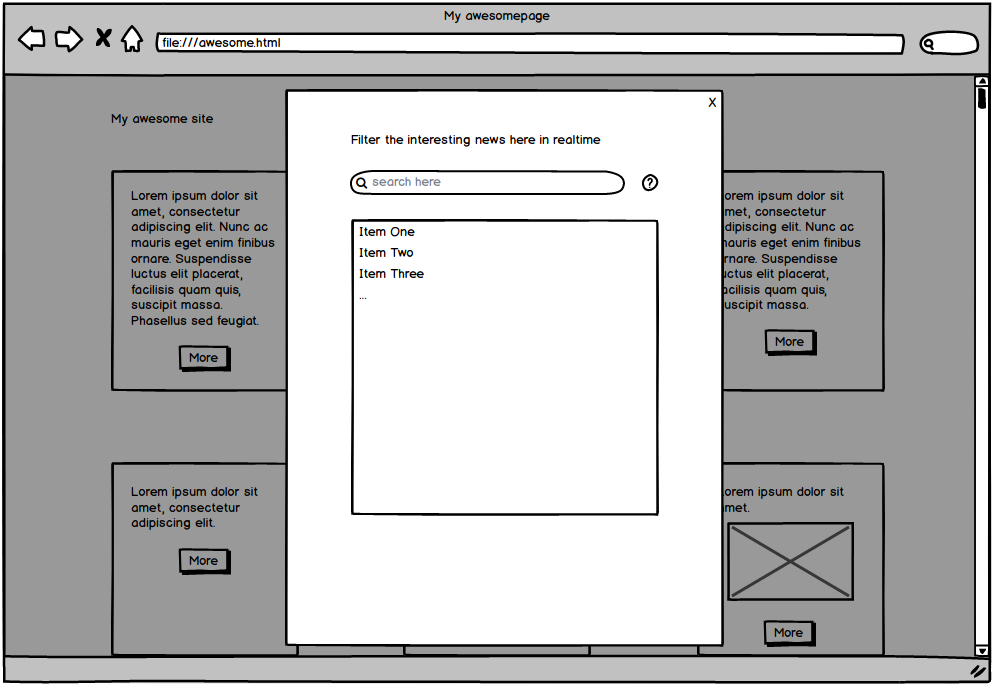
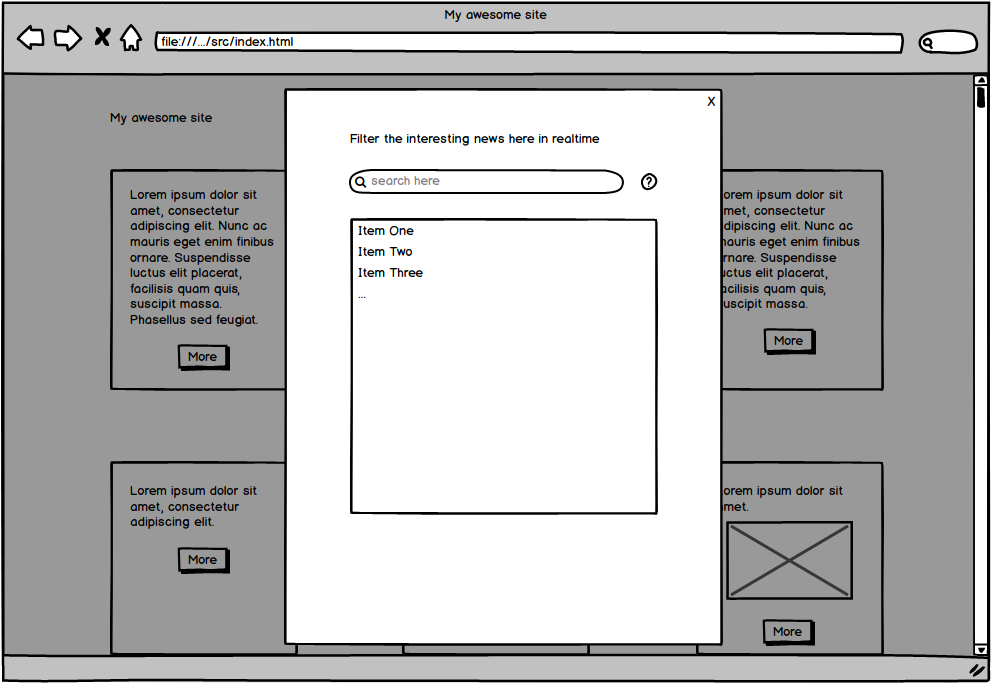
Added an extended skeleton

diff --git a/src/index.html b/src/index.html
@@ -1,0 +1,11 @@
+<!DOCTYPE html>
+<html lang="de">
+<head>
+    <meta charset="UTF-8">
+    <meta name="author" content="Dein Name">
+    <title>My awesome site</title>
+</head>
+<body>
+    <!-- Inhalt -->
+</body>
+</html>

diff --git a/README.md b/README.md
@@ -3,7 +3,7 @@
 * Dauer: 2,5 Stunden
 * Sprachen: HTML, CSS (SASS/LESS), JS
 
-Die von dir erstellen oder angepassten Klassen bearbeitest und speicherst du direkt in dem von dir geklonten Git Fork des Repositories mit unserem Einstellungstest. Nach Fertigstellung committest du das gesamte Repository einschließlich deiner Dateien und pusht deine Änderungen zurück in deinen Fork. Sobald du fertig bist, gibst du uns Bescheid, so dass wir uns deine Lösung ansehen und bewerten können.
+Die von dir erstellen oder angepassten Dateien bearbeitest und speicherst du direkt in dem von dir geklonten Git Fork des Repositories mit unserem Einstellungstest. Nach Fertigstellung committest du das gesamte Repository einschließlich deiner Dateien und pusht deine Änderungen zurück in deinen Fork. Sobald du fertig bist, gibst du uns Bescheid, so dass wir uns deine Lösung ansehen und bewerten können.
 
 In unsere Bewertung fließen folgende Faktoren mit ein:
 
@@ -16,13 +16,14 @@ In unsere Bewertung fließen folgende Faktoren mit ein:
 
 ## Vorbereitung
 
-Der Einstellungstest geht davon aus, dass du bereits über grundlegende Kenntnisse im Einsatz von npm oder yarn verfügst. Der Einstellungstest besteht aus den folgenden Dateien
+Der Einstellungstest geht davon aus, dass du bereits über grundlegende Kenntnisse im Einsatz von npm oder yarn verfügst, diese sind allerdings nicht zwangsläufig notwendig. Der Einstellungstest besteht aus den folgenden Dateien:
 
 * dieser `README.md` Datei mit Informationen über den Ablauf
-* einer `packages.json` als Rahmen falls du Abhängikeiten nachladen möchtest
-* den Mockups die in dieser Readme eingebunden sind 
+* einer `package.json` als Rahmen falls du Abhängikeiten nachladen möchtest
+* einen minimalen Projektaufbau im `src` Ordner inklusive zwei Bilder die verwendet werden können
+* die Wireframes die in dieser Readme eingebunden sind 
 
-Nachdem du dir den Einstellungstest erfolgreich über git geklont hast, kannst du dir Gedanken zu eventuell nötigen Abhängikeiten machen.
+Nachdem du dir den Einstellungstest erfolgreich über git geklont hast, kannst du dir Gedanken zu eventuell nötigen Abhängigkeiten machen.
 Falls du, was optional aber bevorzugt ist, einen CSS Preprocessor nutzt solltest du ihn dir jetzt einrichten.
 
 Wechsle in das Projektverzeichnis und beginne mit der Bearbeitung.
@@ -32,36 +33,38 @@ Wechsle in das Projektverzeichnis und beginne mit der Bearbeitung.
 
 ## Aufgabenstellung
 
-Im folgenden siehst du die Mockups einer Web-Oberfläche.
+Im Folgenden siehst du die Mockup Wireframes einer Web-Oberfläche.
 Deine Aufgabe ist es, diese in mehreren Schritten nachzubauen. Dabei gibt es bewusst mehrere kleine Zusatzaufgaben,
-deren Umsetzung oder auch Nicht-Umsetzung in die Bewertung mit einfließen.
+deren Umsetzung in die Bewertung mit einfließen.
 
 In welcher Reihenfolge du die Aufgaben bearbeitest bleibt dir überlassen.
 
-In einem fiktiven Kundenprojekt benötigen wir eine gekachelte Übersicht über einzelne CMS Inhalte, z.B. eines Koch-Blogs.
+In einem fiktiven Kundenprojekt benötigen wir eine Übersicht über einzelne CMS Inhalte, z.B. eines Koch-Blogs.
 
 Die Übersicht soll ähnlich zu folgendem Wireframe aussehen.
+
+
 ![Übersicht über Einträge](mockups/overview.png "Übersicht über Einträge")
 
 Erstelle eine solche Übersicht innerhalb einer HTML Datei.
-Achte vor allem auf eine einheitliche Darstellung der einzelnen Kacheln und die Möglichkeit die Seite von verschiedenen Geräten aus anzuzeigen.
+Achte vor allem auf eine einheitliche Darstellung der einzelnen Elemente und die Möglichkeit die Seite auf verschiedenen Geräten anzuzeigen.
 
 ### Responsive
-Achte bei der Darstellung darauf, dass Inhalte resppnsive sind.
+Achte bei der Darstellung darauf, dass Inhalte responsive sind.
 
 ### Breakpoint
 Um die Seite auch für Mobile Nutzer ansehnlich zu gestalten, sollst du einen Breakpoint bei 480 Pixeln einbauen. Unterhalb dieser Grenze wird aus
-den Kacheln eine ein-spaltige Darstellung, die alle Kacheln unter einander anzeigt.
-
-
+den Elementen eine ein-spaltige Darstellung, die alle Elemente untereinander anzeigt.
 
 ### "More" Overlay
 
 Wie aus dem ersten Wireframe ersichtlich, haben die einzelnen Beitrags-Previews einen *More* Button.
-Ein Klick auf diesen Button soll ein Overlay öffnen, ähnlich zu dem in folgendem Wireframe gezeigten.
+Ein Klick auf diesen Button soll ein Overlay öffnen, ähnlich zu dem in folgendem Wireframe gezeigten:
+
+
 ![Detail Overlay](mockups/overlay.png "Detail Overlay")
 
-Als Bonus kannst du auch die üblichen Funktionen eines Overlays, z.B. das Schließen beim KLick auf das *X* oder beim Drücken der Escape Taste berücksichtigen.
+Als Bonus kannst du auch die üblichen Funktionen eines Overlays, z.B. das Schließen beim Klick auf das *X* oder beim Drücken der Escape Taste berücksichtigen.
 
 ### Spezielle Icons
 
@@ -82,26 +85,6 @@ Beispielhaft vertreten durch diese Lorem Ipsum Liste:
 - Velit vestibulum
 - Egestas fringilla
 - Suspendisse at dictum
-- Himenaeos nam
-- Sit sodales
-- Duis cursus rhoncus
-- Nunc risus phasellus
-- Maecenas mattis turpis
-- Vehicula ullamcorper
-- Gravida sollicitudin
-- Sit curae morbi ridiculus
-- Non pellentesque
-- Feugiat aptent
-- Neque penatibus
-- Nostra mi quis
-- Ac vulputate ligula
-- A quis sem malesuada
-- Himenaeos pulvinar
-- Ornare justo class orci
-- Metus eros cum platea
-- Habitant nisl magnis
-- Interdum cum litora vel
-- Enim ut sociosqu ante dapibus
 
 Diese sollen mit Hilfe von Javascript in Echtzeit filterbar sein.
 So soll z.B. bei der Eingabe des Buchstaben *l* in das Suchfeld die Liste auf alle Einträge die auch ein *l* beinhalten reduzuiert werden.
